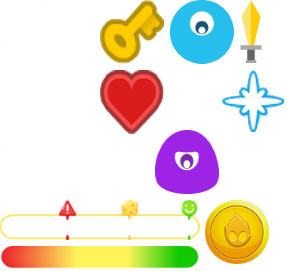
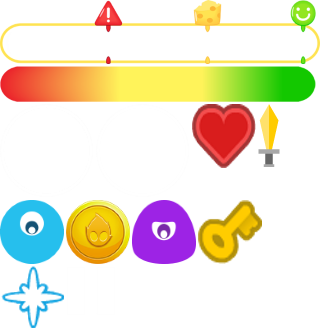
fixing hp bar

diff --git a/Classes/Source/Components/Hud.cpp b/Classes/Source/Components/Hud.cpp
@@ -30,7 +30,7 @@ bool Hud::init()
 		barBorder->setAnchorPoint(Vec2(0, 1.0f));
 		barBorder->setPosition(Vec2(5, visibleSize.height - 2));
 
-		Sprite* barBg = Sprite::create("hud_bar.png"); //Load from file (plist does not work)
+		Sprite* barBg = ResourceManager::getInstance()->LoadSprite("img_bar.png");
 		hp = ProgressTimer::create(barBg);
 		hp->setType(ProgressTimerType::BAR);
 		hp->setAnchorPoint(Vec2(0.0, 0.0));
